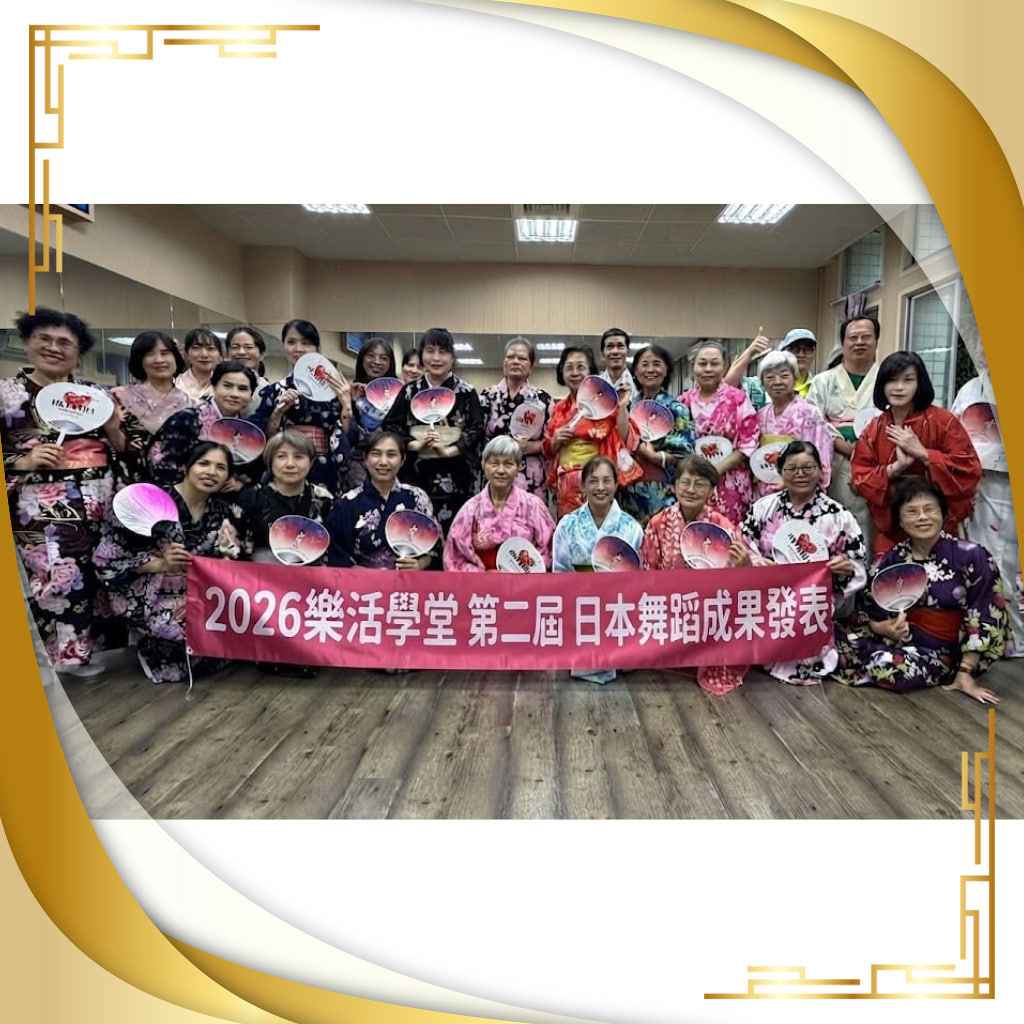
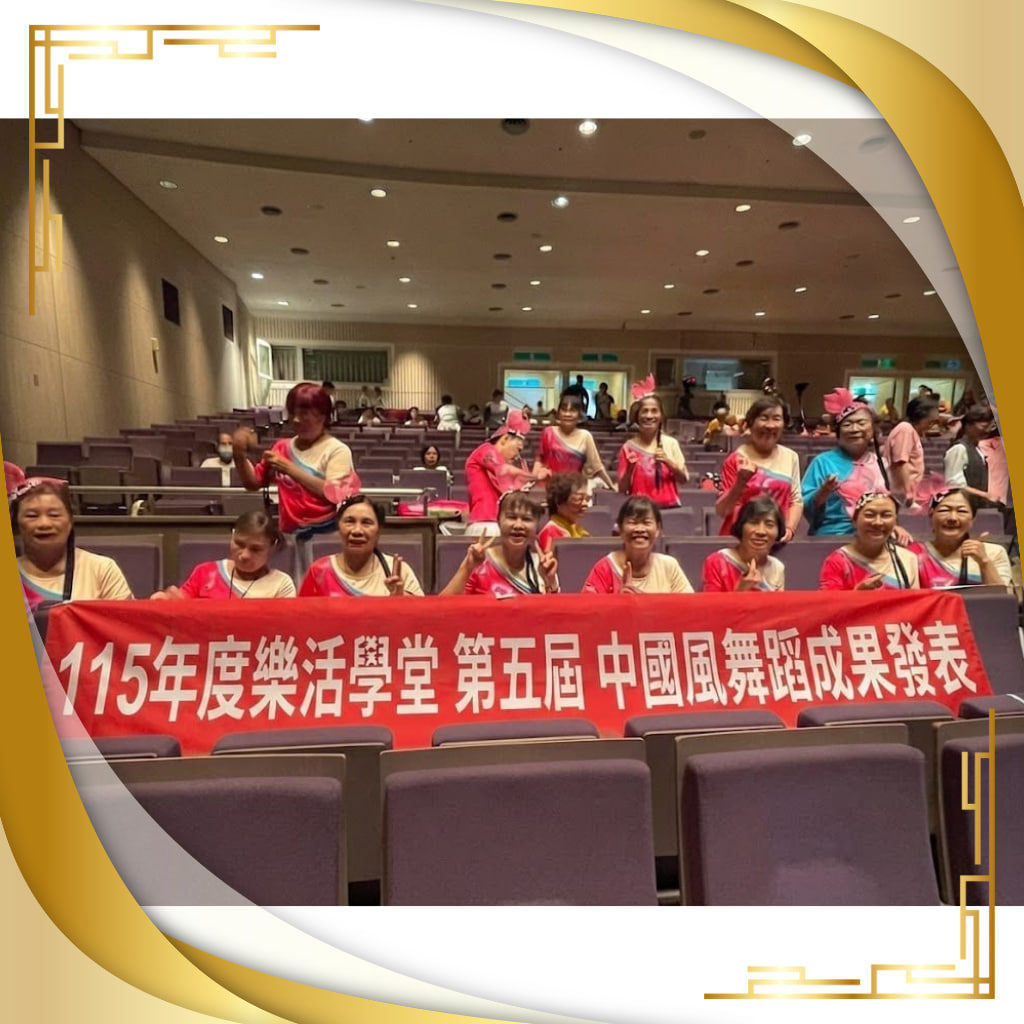
refactor: update image paths to public directory
Correct asset references to use the public directory and clean up metadata in generated images.

diff --git a/src/data.ts b/src/data.ts
@@ -54,7 +54,7 @@ export const TIMELINE_DATA: TimelineItem[] = [
     year: "2024",
     title: "從陌生，到成為一家人",
     description: "開啟我們的幸福起點，攜手跨出第一步。",
-    image: "/src/assets/images/regenerated_image_1784520273351.png",
+    image: "/images/regenerated_image_1784520273351.png",
     details: [
       "✔ 樂活學堂正式成立\n\n打造溫暖、安全的樂齡學習空間，\n陪伴每位學員快樂學習、\n自在交流，開啟精彩人生。",
       "✔ 第一期課程熱烈展開\n\n推出書法、茶道等特色課程，\n吸引 80 位學員熱情參與，\n共同體驗文化之美。",
@@ -65,7 +65,7 @@ export const TIMELINE_DATA: TimelineItem[] = [
     year: "2025",
     title: "一起旅行，一起上課，一起歡笑",
     description: "足跡遍布寶島，學習路上相互陪伴、共同成長。",
-    image: "/src/assets/images/regenerated_image_1784519842178.jpg",
+    image: "/images/regenerated_image_1784519842178.jpg",
     details: [
       "花東慢活鐵道三日遊\n\n首次舉辦「花東慢活鐵道三日遊」，陪伴 30 多位學員一起踏上美好的旅程。沿著花東鐵道欣賞山海風光，漫步特色景點、品嚐在地美食，在歡笑與陪伴中認識新朋友，也留下人生中一段難忘的美好回憶。",
       "樂齡智慧生活課程\n\n開設「樂齡數位智慧手機班」與「活力舒壓瑜珈班」，陪伴學員學習智慧手機的日常應用，讓生活更加便利，也能隨時與親友分享生活點滴。同時透過規律運動與舒展身心，培養健康的生活習慣，享受充滿活力的每一天。",
@@ -165,7 +165,7 @@ export const GALLERY_IMAGES: GalleryItem[] = [
     id: "gal-4",
     category: "service",
     title: "花蓮馬太鞍救災",
-    image: "/src/assets/images/regenerated_image_1784525400236.png",
+    image: "/images/regenerated_image_1784525400236.png",
     date: "2025-11",
     description: "陳柏霖帶著夥伴們一起傳遞愛心，天災無情，人間有愛。每一份善意、每一次伸出援手，都成為受災鄉親重新站起來的重要力量。"
   },
@@ -173,7 +173,7 @@ export const GALLERY_IMAGES: GalleryItem[] = [
     id: "gal-5",
     category: "service",
     title: "參與社區清潔活動",
-    image: "/src/assets/images/regenerated_image_1784525403330.png",
+    image: "/images/regenerated_image_1784525403330.png",
     date: "2025-12",
     description: "許多志願參加的夥伴們一同為社區道路清潔出一份力，每一次的相聚，不只是一次活動，更是一份陪伴、一份溫暖。"
   },

diff --git a/src/components/Hero.tsx b/src/components/Hero.tsx
@@ -235,7 +235,7 @@ export default function Hero({ onScrollToSection, onOpenJoinModal }: HeroProps) 
                     {/* Crop of senior couple */}
                     <div className="h-28 w-28 rounded-full border-4 border-amber-100 overflow-hidden shadow-md bg-[#FAF8F3]">
                       <img
-                        src="/src/assets/images/regenerated_image_1784512840038.png"
+                        src="/images/regenerated_image_1784512840038.png"
                         alt="樂活退休夫婦"
                         className="h-full w-full object-cover scale-110 opacity-95"
                         referrerPolicy="no-referrer"
